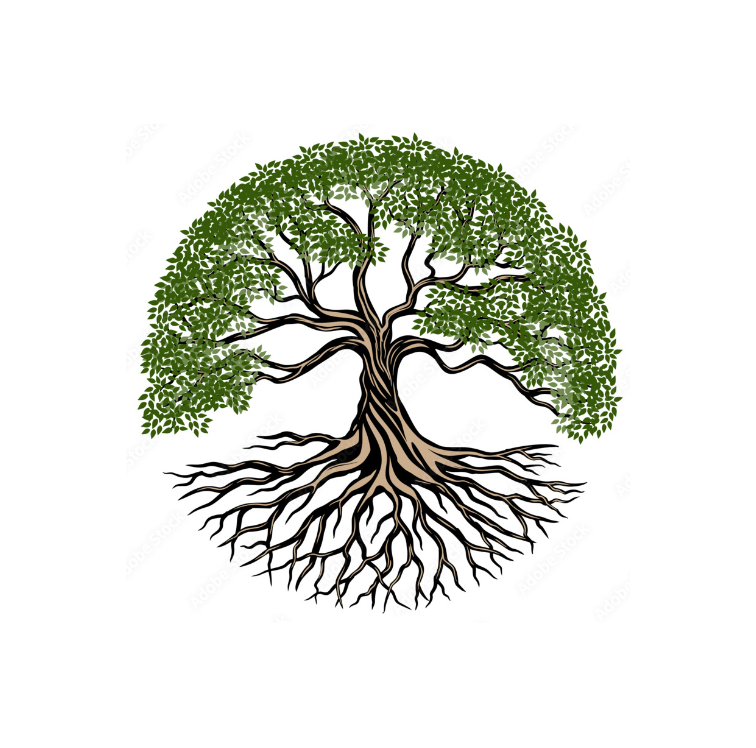
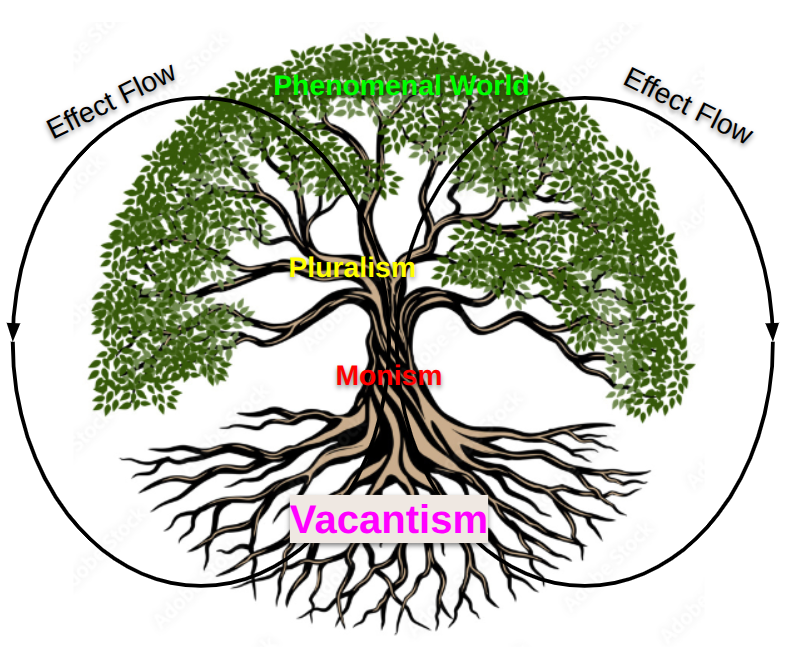
Auto saved by Logseq

diff --git a/pages/Uniinfo.md b/pages/Uniinfo.md
@@ -213,28 +213,31 @@ id:: 69844753-5970-4e97-805b-6c29d9547d54
 						- The intricacy of this diagram reflects the [interconnectedness of all beings](((66eb7dae-2032-434b-9106-756d4aad7cdb))).
 					- [Chord diagram](https://en.wikipedia.org/wiki/Chord_diagram_(information_visualization)) of the cones in the circle of the Universe
 					  ![chord_diagram_example.png](../assets/Uniinfo/Unithread/chord_diagram_example.png){:width 400}
-					- Tree:
+					- Tree: The Grand Circle as a ((667bf36a-581a-4abe-b544-2d849608a3e4))
+					  id:: 6a3a6f72-763b-49a6-b0d8-b11c3318b025
+					  ![TreeEffectCircle](https://docs.google.com/drawings/d/e/2PACX-1vR755KsQ0zqFf3Aev06Zwea0KmE87p7LEoQRhdaTH2JPzToVPRrn1VuLWX2e57qgBICdqlPbZcbjmUC/pub?w=640)
 				- Perspectives of the Grand Circle
 				  id:: 6a3a62f4-15f1-4116-b3f6-6dd409462ec4
 					- The Grand Circle as a tree
 					  id:: 6a3a6340-296f-49aa-bb88-e523073cc177
 					  collapsed:: true
+						- {{embed ((6a3a6f72-763b-49a6-b0d8-b11c3318b025))}}
 						- Shoot system – Reductionism
 							- The canopy represents the phenomenal world – the infinite variety, complexity, and distinct forms of beings.
-							- The branches represent pluralism (đa nguyên), simplifying the chaos of the canopy into primary limbs.
+							- The branches represent pluralism (đa nguyên), including dualism, simplifying the chaos of the canopy into primary limbs.
 							- The trunk represents monism (nhất nguyên), the single, localized column anchoring everything above it.
 						- Root system – Vacantism
 							- It is decentralized, fluid, and infinitely branching, proving the bottom is not a dead end but the engine of live content.
 							- It mirrors the shoot system above – reflecting the principle of “as above, so below” – where the [geometric inversion](https://en.wikipedia.org/wiki/Inversive_geometry) transforms the reduction to $0$ into an expansion toward $∞$.
-							- Although completely invisible beneath the soil surface – explaining why emptiness is so easily ignored or misunderstood as a static void – this subterranean network is just as vast as the canopy, acting as the invisible, active ground of the entire structure.
-						- The Living Torus – The circular flow
-							- By bending the tree model until the tips of the canopy curve down to meet the deep root system, it forms a continuous torus, visually representing the circular effect flow through three distinct phases.
-							- Differentiation in the effect cone: The vacantistic ground generates various forms of beings into the canopy through the upward push of the shoot system.
-							- Mixmatching in the world interface: Each being spreads its effect out through the environment to interact with all other beings, forming an $N \times N$ matrix of interaction.
+							- Although completely invisible beneath the soil surface – explaining why emptiness is so easily ignored or misunderstood as a static void – this subterranean network is just as vast as the canopy, acting as the active ground of the entire structure.
+						- The Living Torus – The ((667bf36a-581a-4abe-b544-2d849608a3e4))
+							- By bending the tree model until the tips of the canopy curve down to meet the deep root system, it forms a continuous torus, visually representing the circular effect flow through three phases.
+							- 1. Differentiation in the effect cone: The vacantistic ground generates various forms of beings into the canopy through the upward push of the shoot system.
+							- 2. Mixmatching in the world interface: Each being spreads its effect out through the environment to interact with all other beings, forming an $N \times N$ matrix of interaction.
 								- This continuous exchange – where each being receives effects from all others to mixmatch with its own live content – actively drives the arrow of time.
 								- Finally, these world effects mixmatch with the root system through the ground, echoing the cultural idiom “lá rụng về cội” (葉落歸根, leaves fall back to their roots).
 									- English equivalents like “ashes to ashes, dust to dust” and “in my end is my beginning” capture this dissolution as a graceful natural law.
-							- Unification in the cause cone: The entire phenomenal world is absorbed by the root system to be integrated back into a coherent flow of effect, pumped back up the trunk.
+							- 3. Unification in the cause cone: The entire phenomenal world is absorbed by the root system to be integrated back into a coherent flow of effect, pumped back up the trunk.
 					- The Grand Circle as an effect flow
 				- ((665359ff-79f1-4669-b10b-f2b0e633a7c1))
 					- How the Grand Circle dissolves traditional paradoxes

diff --git a/pages/Workspace.md b/pages/Workspace.md
@@ -7,7 +7,7 @@ id:: 66519638-cf5d-409b-9b98-15acabf2268c
 	- id:: 66600918-7717-48c0-9869-1776d05035f1
 	- ## Search
 	  id:: 66fce880-77a2-41f7-8bdb-a86b7fc6fc77
-		- vacantism
+		- circular effect
 		  id:: 66fce7e0-8040-4980-b2aa-807e4a0cde1f
 		  case-sensitive:: false
 		  whole-word:: false
